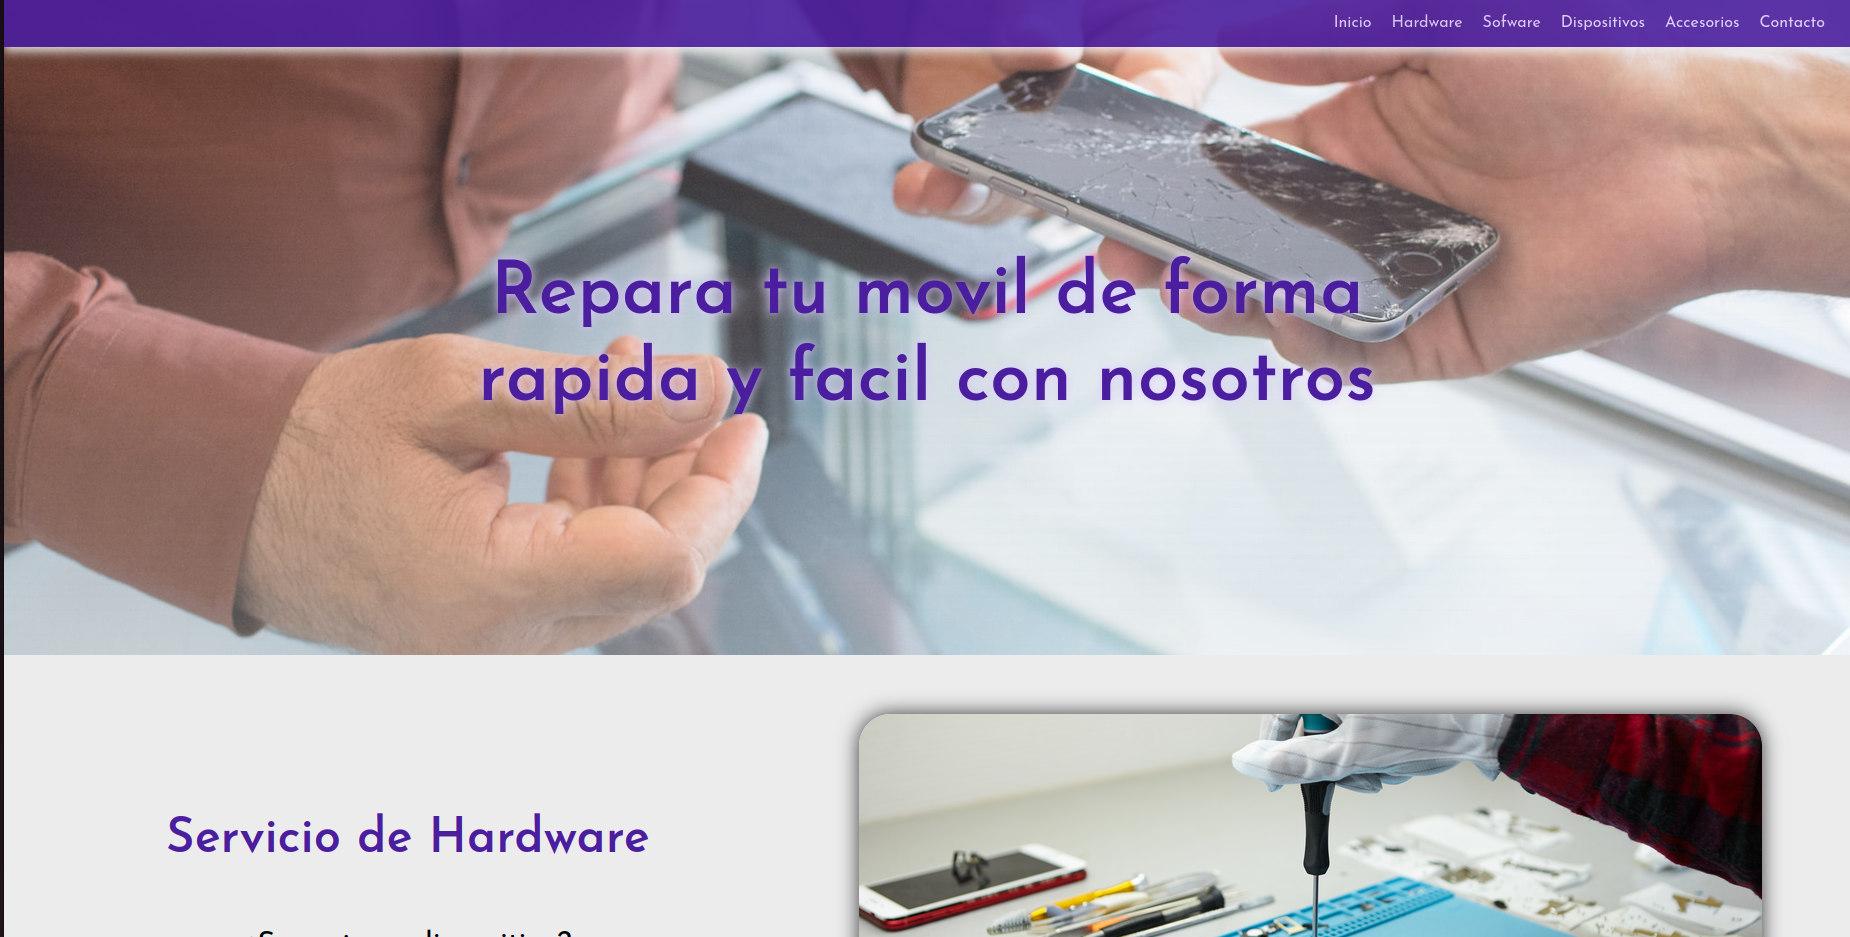
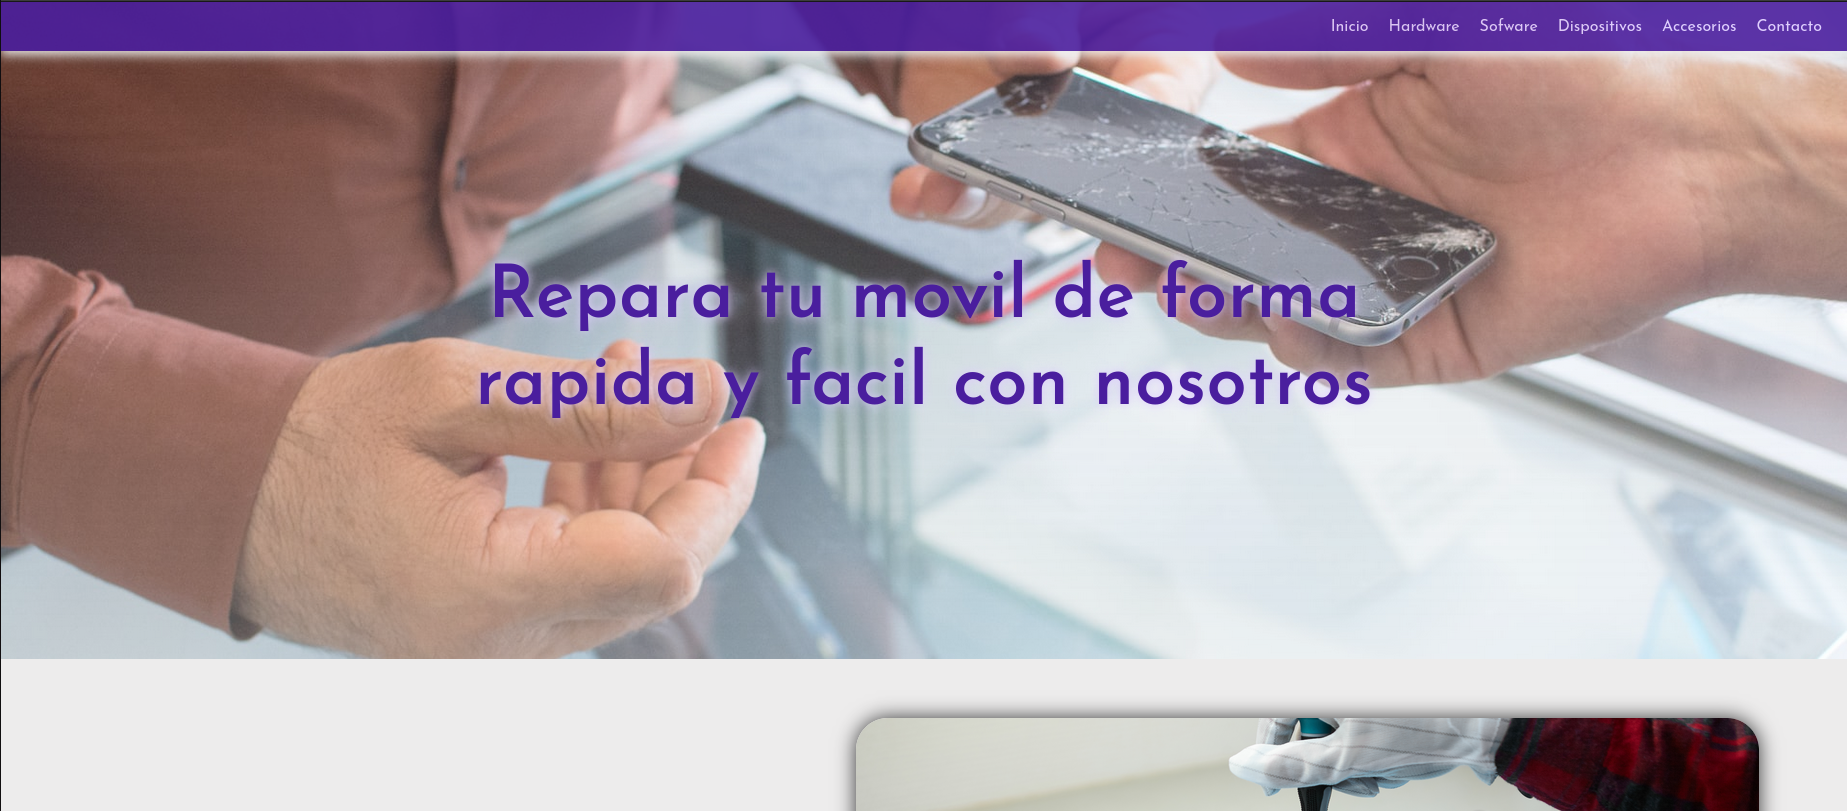
V1.5 actualizacion de diseño y contenido

diff --git a/index.html b/index.html
@@ -31,9 +31,9 @@
   </head>
   <body>
     <header>
-      <!-- barra de naveacio -->
-      <nav class="navbar navbar-expand-lg bg-light">
-        <div class="container-fluid">
+      <!-- barra de naveacion -->
+      <nav class="navbar navbar-expand-lg  position-fixed w-100 mb-1 p-1 ">
+        <div class="container-fluid ">
           <a class="navbar-brand" href="#"
             ><i class="bi bi-file-earmark-code"></i
           ></a>
@@ -48,33 +48,32 @@
           >
             <span class="navbar-toggler-icon"></span>
           </button>
-          <div class="collapse navbar-collapse" id="navbarNavDropdown">
+          <div class="collapse navbar-collapse " id="navbarNavDropdown">
             <ul class="navbar-nav">
               <li class="nav-item">
-                <a class="nav-link active" aria-current="page" href="#">Home</a>
+                <a  href="#">Home</a>
               </li>
               <li class="nav-item">
-                <a class="nav-link active" href="#">Features</a>
+                <a  href="#">Features</a>
               </li>
               <li class="nav-item">
-                <a class="nav-link active" href="#">Pricing</a>
+                <a  href="#">Pricing</a>
               </li>
             </ul>
           </div>
         </div>
       </nav>
     </header>
-
+<br><br>
     <main>
       <!-- nombre -->
       <section>
         <div
-          class="container mt-2 d-flex flex-column align-items-center section1"
-        >
+          class="container d-flex flex-column align-items-center section1 mt-5">
           <!-- nombre -->
           <p class="h1">HAROLD DANILO MQ</p>
           <!-- titulo a alcanzar -->
-          <p class="h3">Developer</p>
+          <p class="h3">Desarrollador de software</p>
           <!-- foto -->
           <div class="foto"></div>
         </div>
@@ -82,10 +81,10 @@
 
       <!-- informacion del talento -->
       <section>
-        <div class="container">
-          <div class="info">
-            <p class="h3">Hola, mi nombre es Harold</p>
-            <p>
+        <div class="info-container w-100 mt-3">
+          <div class="container pt-5 pb-5">
+            <p class="h3 text-center">Hola, mi nombre es Harold</p>
+            <p class="">
               Desde que comencé mi viaje como desarrollador hace un par de años
               he realizado varios trabajos remotos y colaborado con personas
               talentosas para crear productos digitales para uso comercial y de
@@ -100,20 +99,21 @@
       </section>
       <!-- skills & conosimientos -->
       <section>
-        <div class="container">
-          <div class="skill">
-            <p>Habilidades</p>
-            <ul class="">
+        <div class="skill-conosimientos-container">
+          <div class="skill ">
+            <p class="h2 mt-5 text-center">Habilidades</p>
+            <ul class="skill-list text-center">
               <li>Comunicativo</li>
-              <li>Enfocado en los proyectos</li>
               <li>Trabajo en equipo</li>
+              <li>Enfocado en los proyectos</li>
               <li>Paciente con los compañeros de equipo</li>
               <li>Diseño basado en la experiencia del usuario</li>
             </ul>
           </div>
-          <div class="conosimientos">
-            <p class="h4 mt-5">Lenguajes</p>
-            <div class="d-flex justify-content-around mt-2">
+          <div class="conosimientos pt-5 pb-5">
+            <div class="container">
+              <p class="h4 mt-5 conosimiento-title">Lenguajes</p>
+              <div class="d-flex justify-content-around mt-2">
               <div class="conosimiento dart"></div>
               <div class="conosimiento flutter"></div>
               <div class="conosimiento html"></div>
@@ -121,10 +121,13 @@
               <div class="conosimiento css"></div>
               <div class="conosimiento bootstrap"></div>
             </div>
-            <p class="h4 mt-5">Programas</p>
-            <div class="d-flex justify-content-around mt-2">
-                <div class="conosimiento vsCode"></div>
-                <div class="conosimiento android"></div>
+            </div>
+            <div class="container">
+              <p class="h4 mt-5 conosimiento-title">Herramientas</p>
+              <div class="d-flex justify-content-around mt-2">
+                  <div class="conosimiento vsCode"></div>
+                  <div class="conosimiento android"></div>
+              </div>
             </div>
           </div>
         </div>
@@ -132,19 +135,67 @@
       <!-- porductos con acceo -->
       <section>
         <div class="container">
-           <div class="proyectos">
-            <div class="card" style="width: 18rem;">
+          <p class="h4 mt-5">Proyectos</p>
+           <div class="proyectos mt-5 d-flex gap-3">
+            <!-- proyecto1 landing-->
+              <div class="card" style="width: 19rem;">
                 <img src="./resources/img_proyectos/img_pagina_web.png" class="card-img-top" >
-                <div class="card-body">
+                <div class="card-body border-top d-flex flex-column justify-content-between">
                   <h5 class="card-title">Pagina Web</h5>
                   <p class="card-text">Una pagina web diseñada unicamente con CSS y HTML.</p>
-                  <a href="#" class="btn btn-primary">ver...</a>
+                  <a href="https://babyguy.github.io/Landinfg_web_serviMoviles/" target="_blank" class="btn  ">ver...</a>
+                </div>
+              </div>
+              <!-- proyecto2 calculadora-->
+              <div class="card" style="width: 19rem;">
+                <img src="./resources/img_proyectos/img_calculadora.png" class="card-img-top " >
+                <div class="card-body border-top d-flex flex-column justify-content-between">
+                  <h5 class="card-title">Calculadora</h5>
+                  <p class="card-text">Calculadora Basica con eventos de JavaScript</p>
+                  <a href="https://babyguy.github.io/calculadora/" target="_blank" class="btn ">ver...</a>
+                </div>
+              </div>
+              <!-- proyecto3 crear y eliminar tarjetas-->
+              <div class="card" style="width: 19rem;">
+                <img src="./resources/img_proyectos/img_crear&eliminar_tarjetas.png" class="card-img-top" >
+                <div class="card-body border-top d-flex flex-column justify-content-between">
+                  <h5 class="card-title">Creacion y eliminacion de tarjetas</h5>
+                  <p class="card-text">Crea tarjetas con un numeo especifico e liminas las que deseas.</p>
+                  <a href="https://babyguy.github.io/tarjetas_crear_eliminar/" target="_blank" class="btn ">ver...</a>
+                </div>
+              </div>
+              <!-- proyecto4 agregar personas-->
+              <div class="card" style="width: 19rem;">
+                <img src="./resources/img_proyectos/img_agregar&eliminar_personas.png" class="card-img-top" >
+                <div class="card-body border-top d-flex flex-column justify-content-between">
+                  <h5 class="card-title">Agregar personas</h5>
+                  <p class="card-text">Crea tarjetas con informacion especifica.</p>
+                  <a href="https://babyguy.github.io/registro-con-poo/" target="_blank" class="btn ">ver...</a>
+                </div>
+              </div>
+              <!-- proyecto5 pokedex-->
+              <div class="card" style="width: 19rem;">
+                <img src="./resources/img_proyectos/img_pokedex.png" class="card-img-top" >
+                <div class="card-body border-top d-flex flex-column justify-content-between">
+                  <h5 class="card-title">Pokedex</h5>
+                  <p class="card-text">Busca tu pokemon y ve las estadisticas que posee.</p>
+                  <a href="https://babyguy.github.io/pokedex/" target="_blank" class="btn ">ver...</a>
                 </div>
               </div>
         </div>
       </section>
       <!-- contacto         -->
-      <section></section>
+      <section>
+        <div class="container mb-5 text-center">
+          <p class="h4 mt-5 ">Redes de contacto</p>
+          <div class="redes d-flex gap-5 d-flex justify-content-center">
+            <a href=""><div class="contact facebook"></div></a>
+            <a href=""><div class="contact instagram"></div></a>
+            <a href=""><div class="contact telegram"></div></a>
+            <a href=""><div class="contact whatsapp"></div></a>
+          </div>
+        </div>
+      </section>
       <!-- social media -->
       <section></section>
     </main>

diff --git a/styles.css b/styles.css
@@ -3,6 +3,37 @@
     padding: 0;
     box-sizing: border-box;
 }
+
+/* paleta de colores */
+:root {
+    /* link pallet */
+    /* https://colors.muz.li/palette/8a2be2/4a1e9e/ddcbff/bb98ff/ffffff */
+    --my-background: #edecec;
+    --my-shadow: #333;
+    --my-strong: #4a1e9e;
+    --my-hover: #340c5a;
+    --my-textLigth: #ddcbff;
+  }
+
+body{
+    background-color: var(--my-background);
+    color: var(--my-strong);
+}
+
+/* navbar */
+.navbar{
+    background-color: #4b1e9ee7
+}
+.navbar-brand{
+    color: var(--my-textLigth);
+}
+.navbar-nav li a{
+    text-decoration: none;
+    margin: 0 10px;
+    color: var(--my-textLigth);
+}
+
+
 /* fotod e perfil */
 .foto{
     height: 300px;
@@ -14,13 +45,40 @@
     border-radius: 200px;
 }
 
+/* presentacion */
+.info-container{
+    background-color: var(--my-strong);
+    color: var(--my-textLigth);
+    font-size: 1.3em;
+}
+
+/* habilidades */
+.skill-list{
+    font-size: 1.2em;
+}
+
 /* conosimiento = tamaño de los contenedores para los logos */
 
+.conosimientos{
+    background-color: var(--my-strong);
+}
+
+.conosimiento-title{
+    color: var(--my-textLigth);
+    text-align: center;
+}
 .conosimiento{
     height: 100px;
     width: 100px;
 }
 
+.conosimiento:hover{
+    box-shadow: 0 0 50px 1px var(--my-textLigth);
+    background-color: var(--my-textLigth);
+    border-radius: 30px;
+    border: 1px solid transparent;
+    transition: all 1s;
+}
 /* logos de conosimientos y programas */
 .dart{
     background-image: url("./resources/logos/logo_dart.png");
@@ -71,6 +129,44 @@
     background-position: center;
 }
 
-/* proyectos */
+.btn{
+    background-color: var(--my-textLigth);
+    color: var(--my-strong);
+}
+
+.btn:hover{
+    box-shadow: 0 0 15px 3px var(--my-strong);
+    background-color: var(--my-strong);
+    color: var(--my-textLigth); 
+    transition: all 1s;
+}
+
+/* contacto */
+
+.contact{
+    height: 50px;
+    width: 50px;
+}
+
+.facebook{
+    background-image: url("./resources/logos/redes/logo_facebook.png");
+    background-position: center;
+    background-size: contain;
+}
+.instagram{
+    background-image: url("./resources/logos/redes/logo_instragram.png");
+    background-position: center;
+    background-size: contain;
+}
+.telegram{
+    background-image: url("./resources/logos/redes/logo_telegram.png");
+    background-position: center;
+    background-size: contain;
+}
+.whatsapp{
+    background-image: url("./resources/logos/redes/log_whatsapp.png");
+    background-position: center;
+    background-size: contain;
+}
 
 
